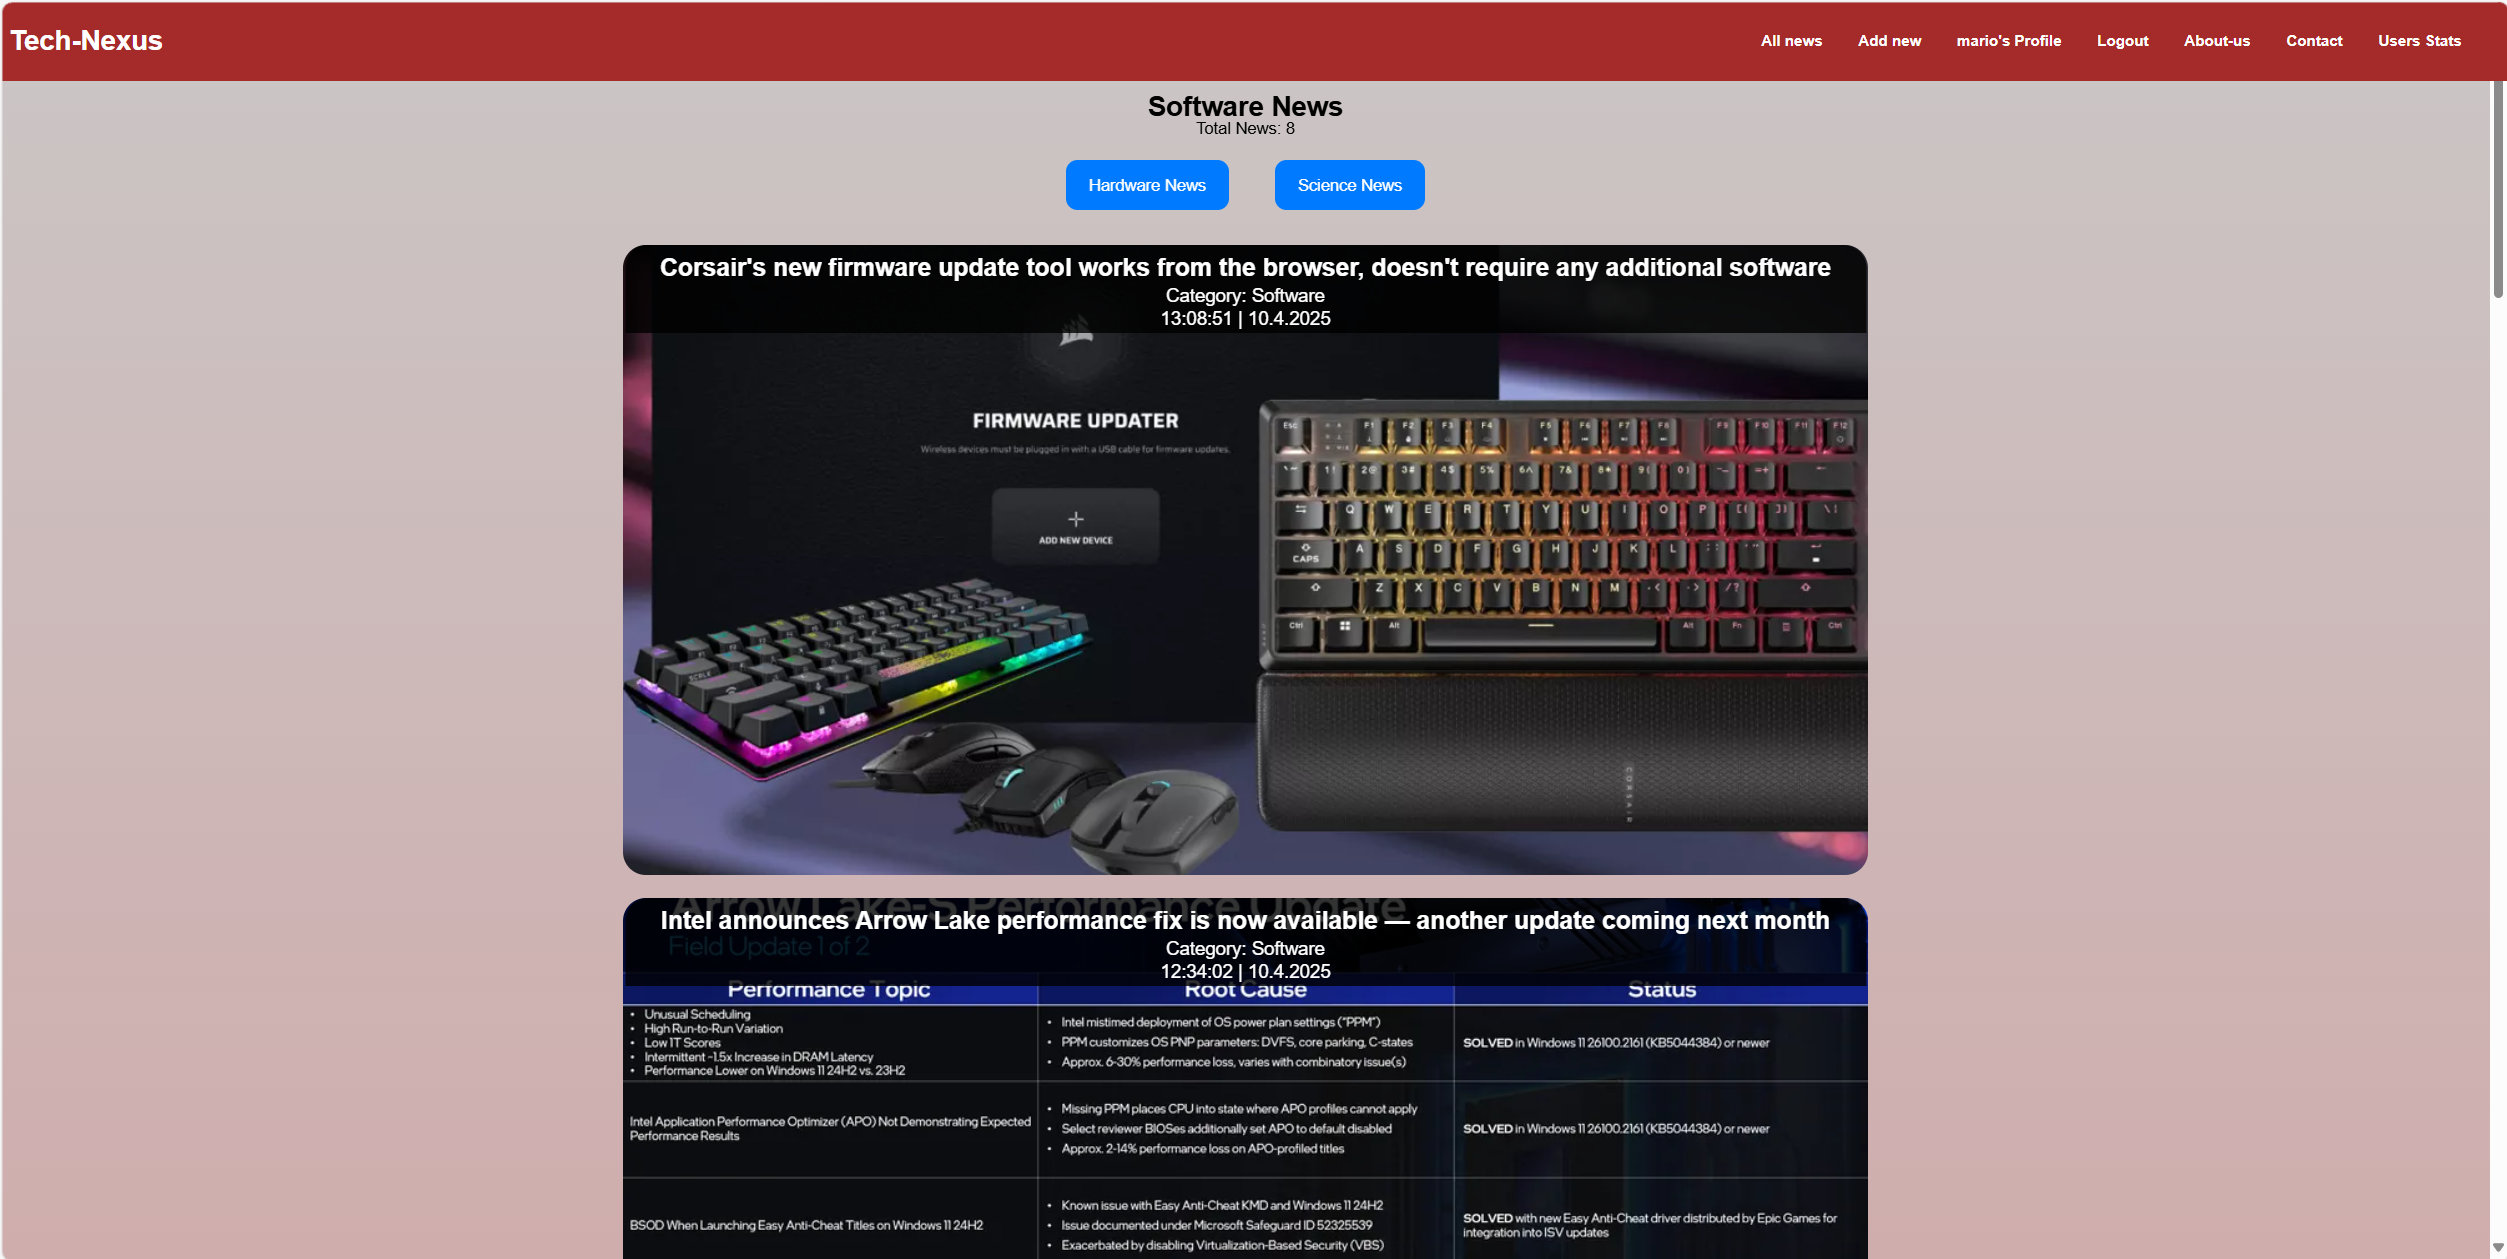
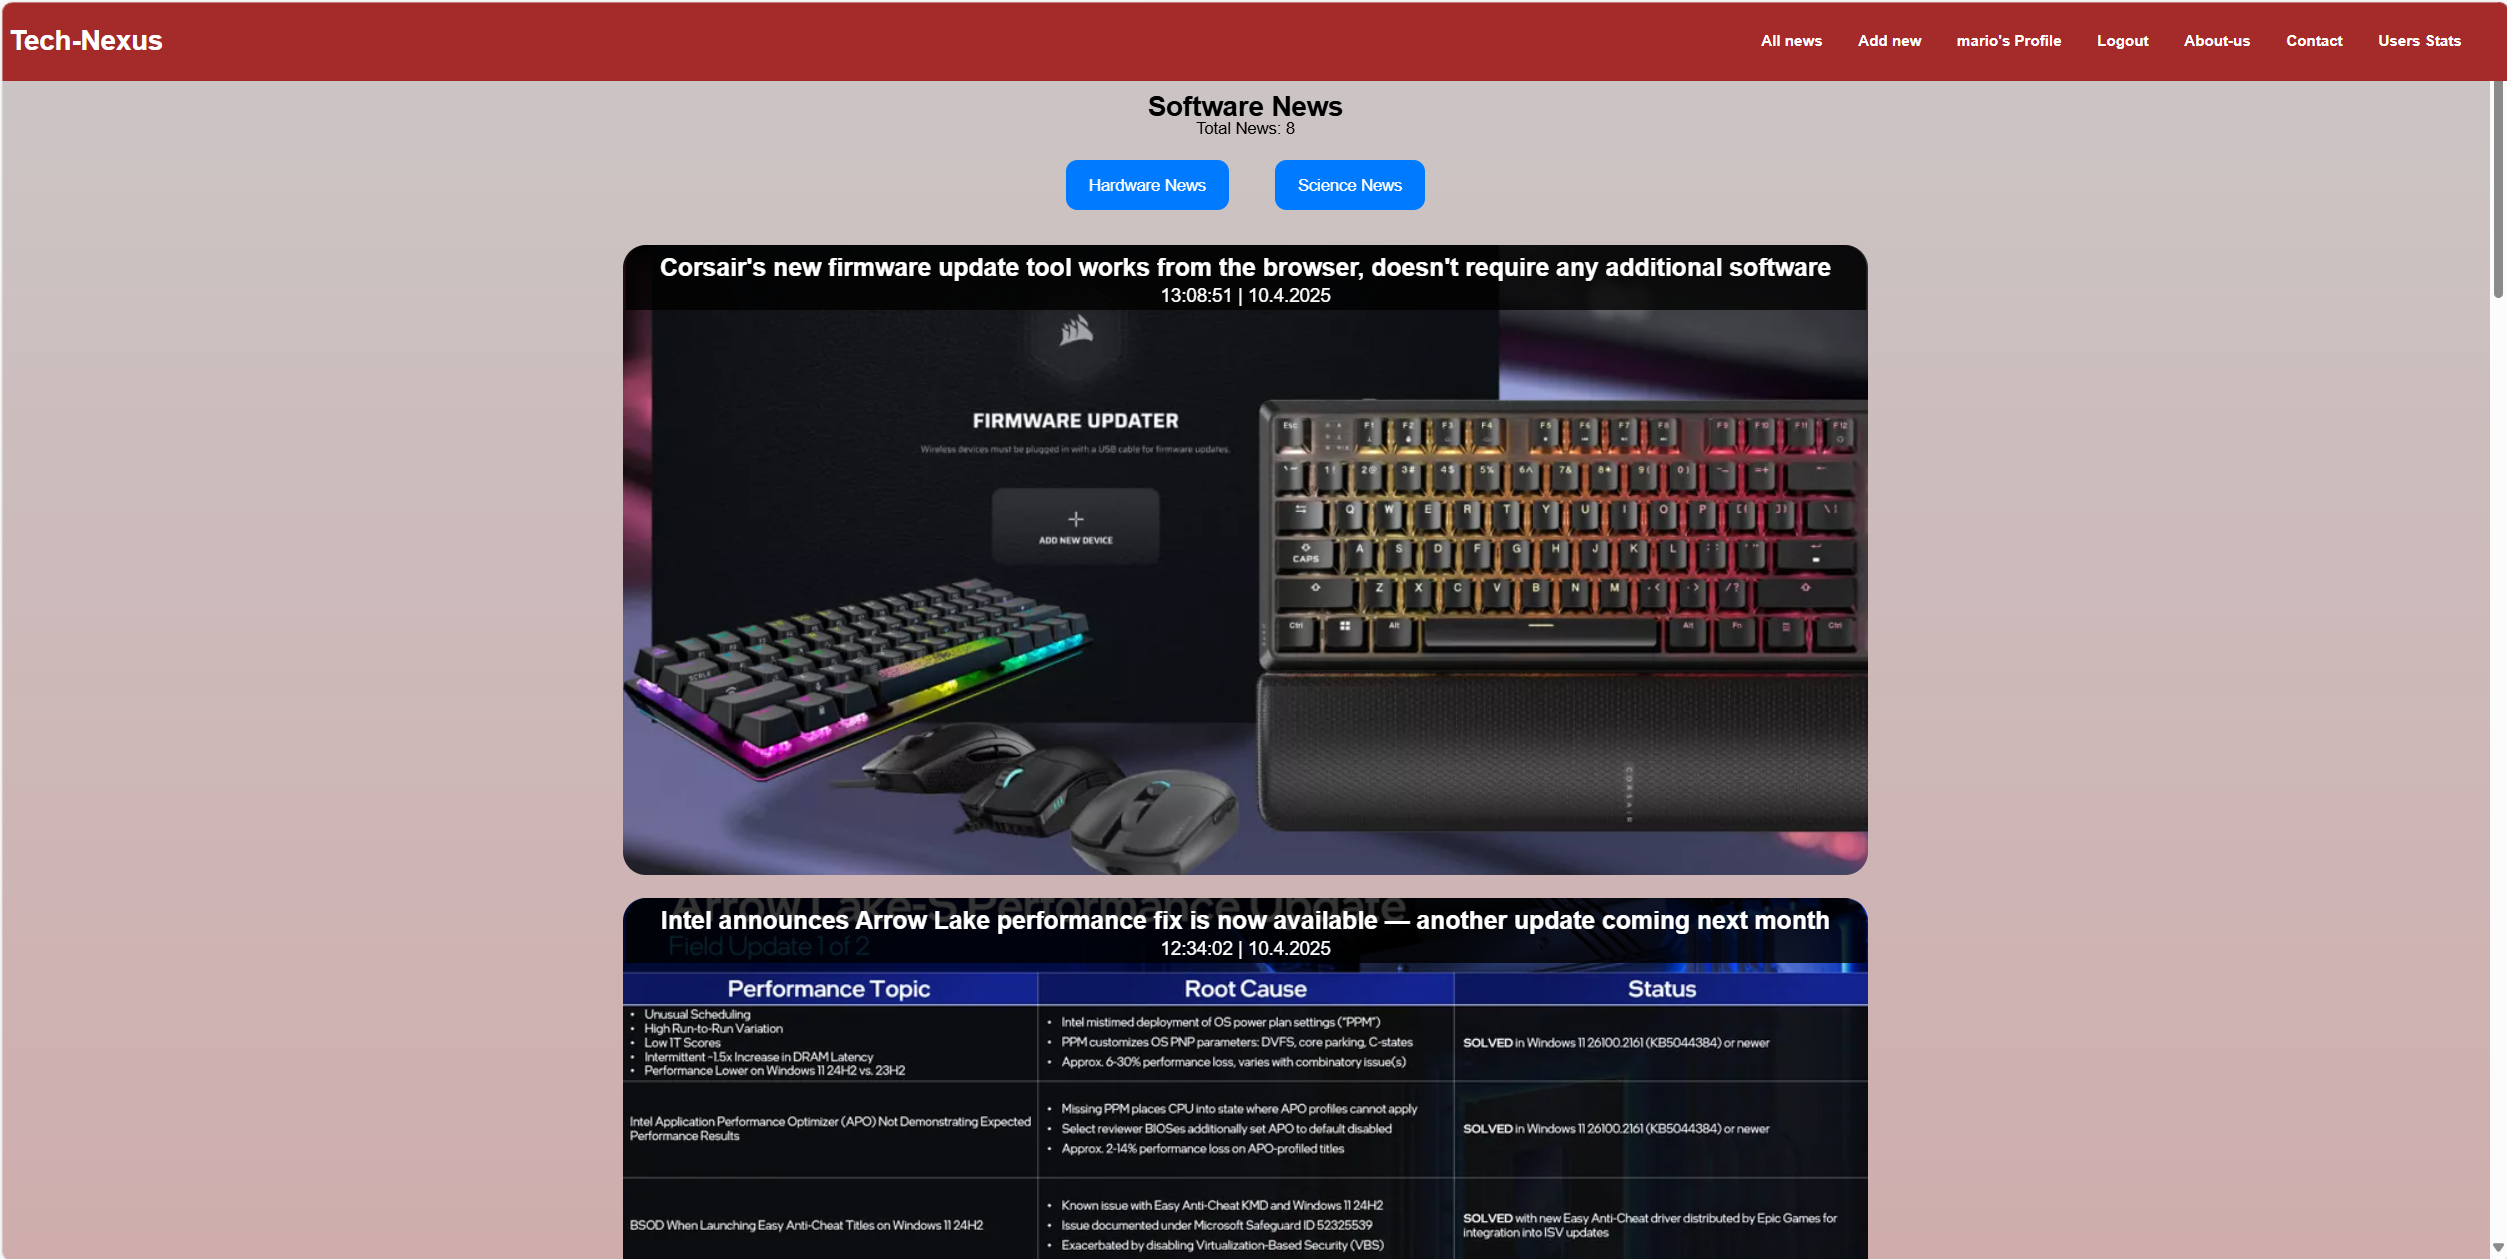
remove unnecessary paragraph from category pages and change one of the screenshots

diff --git a/tech-nexus/src/pages/AllNews/category/HardwareNews.jsx b/tech-nexus/src/pages/AllNews/category/HardwareNews.jsx
@@ -67,9 +67,7 @@ const HardwareNews = () => {
                   />
                   <div className={styles.textOverlay}>
                     <h2 className={styles.header2}>{article.title}</h2>
-                    <p className={styles.paragraph}>
-                      Category: {article.category}
-                    </p>
+
                     <p className={styles.paragraph}>
                       {" "}
                       {article.time} | {article.date}

diff --git a/tech-nexus/src/pages/AllNews/category/ScienceNews.jsx b/tech-nexus/src/pages/AllNews/category/ScienceNews.jsx
@@ -67,9 +67,7 @@ const ScienceNews = () => {
                   />
                   <div className={styles.textOverlay}>
                     <h2 className={styles.header2}>{article.title}</h2>
-                    <p className={styles.paragraph}>
-                      Category: {article.category}
-                    </p>
+                    
                     <p className={styles.paragraph}>
                       {" "}
                       {article.time} | {article.date}

diff --git a/tech-nexus/src/pages/AllNews/category/SoftwareNews.jsx b/tech-nexus/src/pages/AllNews/category/SoftwareNews.jsx
@@ -68,9 +68,7 @@ const SoftwareNews = () => {
                   />
                   <div className={styles.textOverlay}>
                     <h2 className={styles.header2}>{article.title}</h2>
-                    <p className={styles.paragraph}>
-                      Category: {article.category}
-                    </p>
+                    
                     <p className={styles.paragraph}>
                       {" "}
                       {article.time} | {article.date}